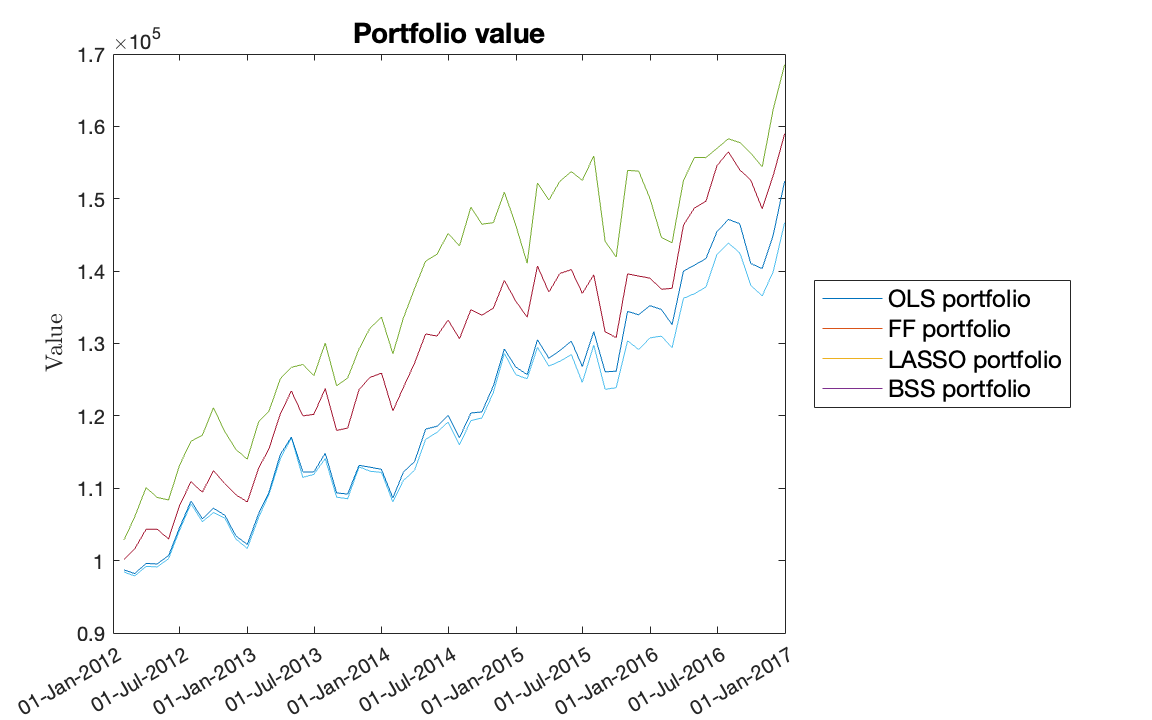
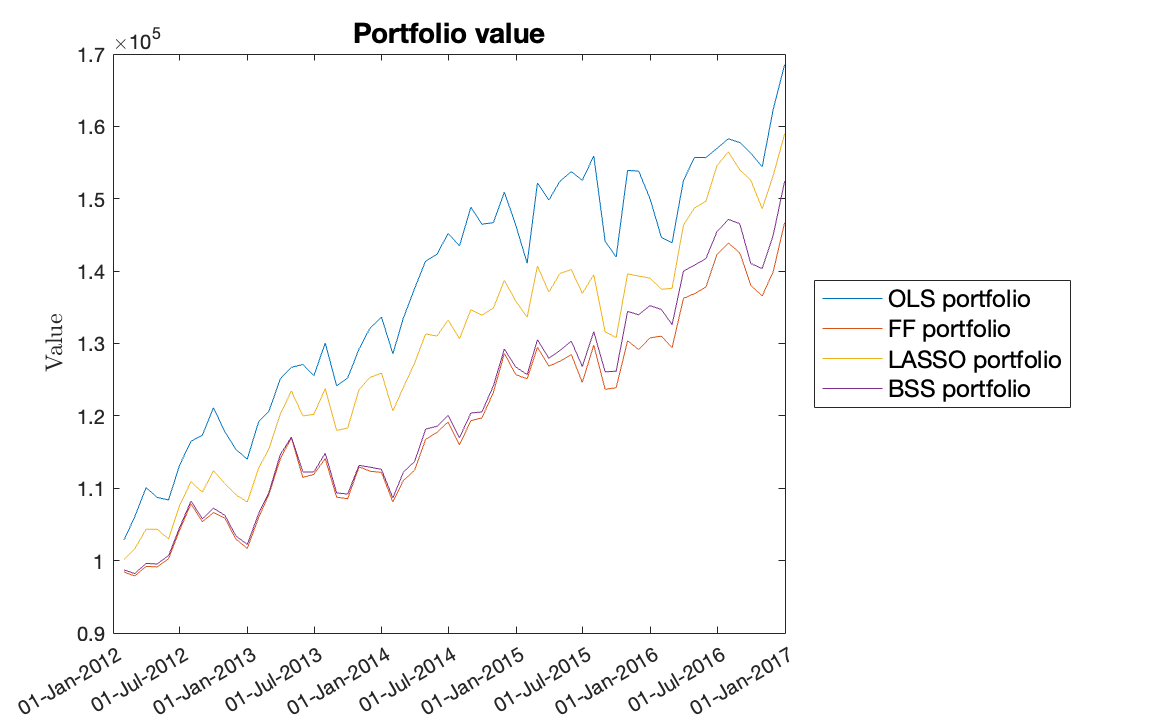
Incorrect sharpe

diff --git a/Project 1/MATLAB/MMF1921_Project_1_Main_New.m b/Project 1/MATLAB/MMF1921_Project_1_Main_New.m
@@ -95,100 +95,84 @@ tags = {'OLS portfolio' 'FF portfolio' 'LASSO portfolio' 'BSS portfolio'};
 % Initiate counter for the number of observations per investment period
 toDay = 0;
 
-
-
 % Preallocate the space for the per period value of the portfolios 
 currentVal = zeros(NoPeriods, NoModels);
-
-% -------------------------------------------------------------------------
-% Prepare storage for RESULTS
-% -------------------------------------------------------------------------
-adjR2   = zeros(NoPeriods, NoModels);   % in‑sample fit
-weights = cell(NoModels,1);            % store weights per model per period
-
 
 %--------------------------------------------------------------------------
 % Set the value of lambda and K for the LASSO and BSS models, respectively
 %--------------------------------------------------------------------------
 lambda = 1;
 K      = 4;
-fromDay = 1;
 
 for t = 1 : NoPeriods
-    
-    % -------- data windows unchanged -------------------------------------
+  
+    % Subset the returns and factor returns corresponding to the current
+    % calibration period.
     periodReturns = table2array( returns( calStart <= dates & dates <= calEnd, :) );
     periodFactRet = table2array( factorRet( calStart <= dates & dates <= calEnd, :) );
-    currentPrices = table2array( adjClose( ( calEnd - days(7) ) <= dates ...
+    currentPrices = table2array( adjClose( ( calEnd - days(7) ) <= dates ... 
                                                     & dates <= calEnd, :) )';
-    periodPrices  = table2array( adjClose( testStart <= dates & dates <= testEnd,:) );
-
-    fromDay = toDay + 1;
-    toDay   = toDay + size(periodPrices,1);
     
-    % -------- initialise portfolio value ---------------------------------
+    % Subset the prices corresponding to the current out-of-sample test 
+    % period.
+    periodPrices = table2array( adjClose( testStart <= dates & dates <= testEnd,:) );
+    
+    % Set the initial value of the portfolio or update the portfolio value
     if t == 1
+        
         currentVal(t,:) = initialVal;
+        
     else
         for i = 1 : NoModels
+            
             currentVal(t,i) = currentPrices' * NoShares{i};
+            
         end
     end
     
-    % -------- in‑sample fit & μ,Q ----------------------------------------
+    % Update counter for the number of observations per investment period
+    fromDay = toDay + 1;
+    toDay   = toDay + size(periodPrices,1);
+    
+    % Calculate 'mu' and 'Q' using the 4 factor models.
+    % Note: You need to write the code for the 4 factor model functions. 
     for i = 1 : NoModels
         
         [mu{i}, Q{i}] = FMList{i}(periodReturns, periodFactRet, lambda, K);
         
-        % ► NEW: adjusted R² ------------------------------------------------
-        switch func2str(FMList{i})
-            case 'OLS'
-                X = [ones(size(periodFactRet,1),1), periodFactRet]; % 1+8
-                k_pred = 9;
-            case 'FF'
-                X = [ones(size(periodFactRet,1),1), periodFactRet(:,1:3)];%1+3
-                k_pred = 4;
-            case 'LASSO'
-                X = [ones(size(periodFactRet,1),1), periodFactRet]; % same 1+8
-                k_pred = 9;    % λ penalises complexity already – keep constant
-            case 'BSS'
-                X = [ones(size(periodFactRet,1),1), periodFactRet(:,1:K)];
-                k_pred = K + 1;
-        end
-        
-        % one R² per asset → store mean across assets
-        Rs = zeros(size(periodReturns,2),1);
-        for a = 1:size(periodReturns,2)
-            y     = periodReturns(:,a);
-            beta  = X\y;
-            y_hat = X*beta;
-            Rs(a) = calc_adjR2(y, y_hat, k_pred);
-        end
-        adjR2(t,i) = mean(Rs);
     end
             
-    % -------- MVO optimisation -------------------------------------------
+    % Optimize your portfolios to get the weights 'x'
+    % Note: You need to write the code for MVO with no short sales
     for i = 1 : NoModels
-        targetRet    = geomean(periodFactRet(:,1) + 1) - 1;
-        x{i}(:,t)    = MVO(mu{i}, Q{i}, targetRet);
-        weights{i}   = x{i};                     % ► keep weights
+        
+        % Define the target return as the geometric mean of the market 
+        % factor for the current calibration period
+        targetRet = geomean(periodFactRet(:,1) + 1) - 1;
+        
+        x{i}(:,t) = MVO(mu{i}, Q{i}, targetRet); 
+            
     end
     
-    % -------- shares held & out‑of‑sample wealth --------------------------
+    % Calculate the optimal number of shares of each stock you should hold
     for i = 1 : NoModels
+        
+        % Number of shares your portfolio holds per stock
         NoShares{i} = x{i}(:,t) .* currentVal(t,i) ./ currentPrices;
+        
+        % Weekly portfolio value during the out-of-sample window
         portfValue(fromDay:toDay,i) = periodPrices * NoShares{i};
+        
     end
-    
-    % -------- roll windows forward ---------------------------------------
 
-    
+    % Update your calibration and out-of-sample test periods
     calStart = calStart + calyears(1);
     calEnd   = calStart + calyears(4) - days(1);
+    
     testStart = testStart + calyears(1);
     testEnd   = testStart + calyears(1) - days(1);
-end   % ← end main period loop
 
+end
 
 %%%%%%%%%%%%%%%%%%%%%%%%%%%%%%%%%%%%%%%%%%%%%%%%%%%%%%%%%%%%%%%%%%%%%%%%%%%
 %% 4. Results
@@ -200,19 +184,17 @@ end   % ← end main period loop
 % calculate the quality of fit each time the models are recalibrated.
 %--------------------------------------------------------------------------
 
-meanAdjR2 = mean(adjR2,1);                    % average across periods
+meanAdjR2 = mean(calc_adjR2,1);                    % average across periods
 
 fprintf('\n*** In‑sample adjusted R² (mean across 5 calibrations) ***\n');
 for i = 1:NoModels
     fprintf('%-15s  %.4f\n', tags{i}, meanAdjR2(i));
 end
-
 %--------------------------------------------------------------------------
 % 4.2 Calculate the portfolio average return, variance (or standard 
 % deviation), and any other performance and/or risk metric you wish to 
 % include in your report.
 %--------------------------------------------------------------------------
-
 portfRet = diff(portfValue) ./ portfValue(1:end-1,:);     % ΔW / W_{t-1}
 
 avgRet   = mean(portfRet);                % weekly mean
@@ -230,7 +212,6 @@ for i = 1:NoModels
     fprintf('%-10s  %8.2f  %8.2f  %8.2f\n', ...
         tags{i}, 100*annRet(i), 100*annVol(i), annSharpe(i) );
 end
-
 
 %--------------------------------------------------------------------------
 % 4.3 Plot the portfolio wealth evolution 
@@ -291,14 +272,6 @@ set(fig2,'PaperPositionMode','Auto','PaperUnits','Inches',...
 
 % If you want to save the figure as .png for use in MS Word
 print(fig2,'fileName2','-dpng','-r0');
-
-for i = 1:NoModels
-    figure(1+i)               % figs 2..5
-    area(x{i}')
-    legend(tickers, 'Location','eastoutside','FontSize',10);
-    title([tags{i} ' weights'],'FontSize',14)
-    ylabel('Weights'), xlabel('Rebalance period')
-end
 
 %%%%%%%%%%%%%%%%%%%%%%%%%%%%%%%%%%%%%%%%%%%%%%%%%%%%%%%%%%%%%%%%%%%%%%%%%%%
 % Program End
